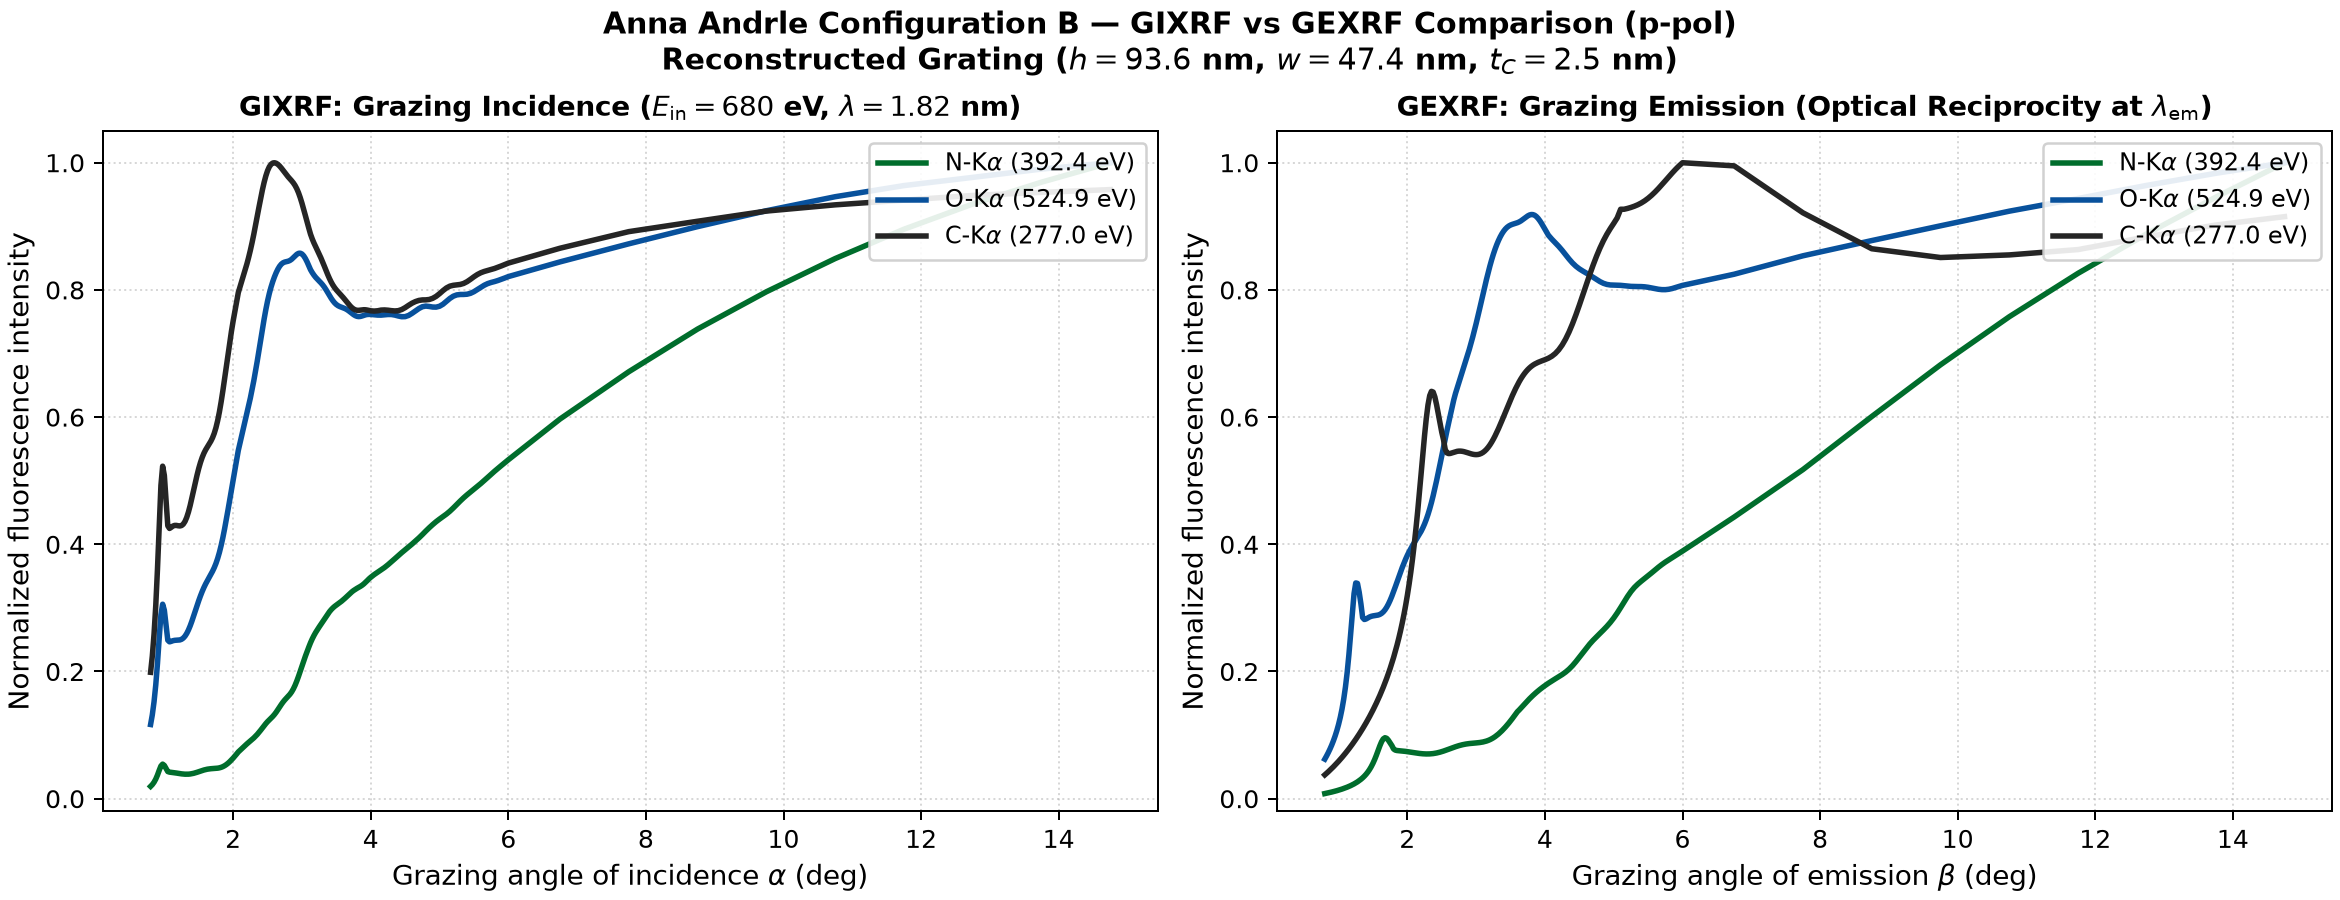
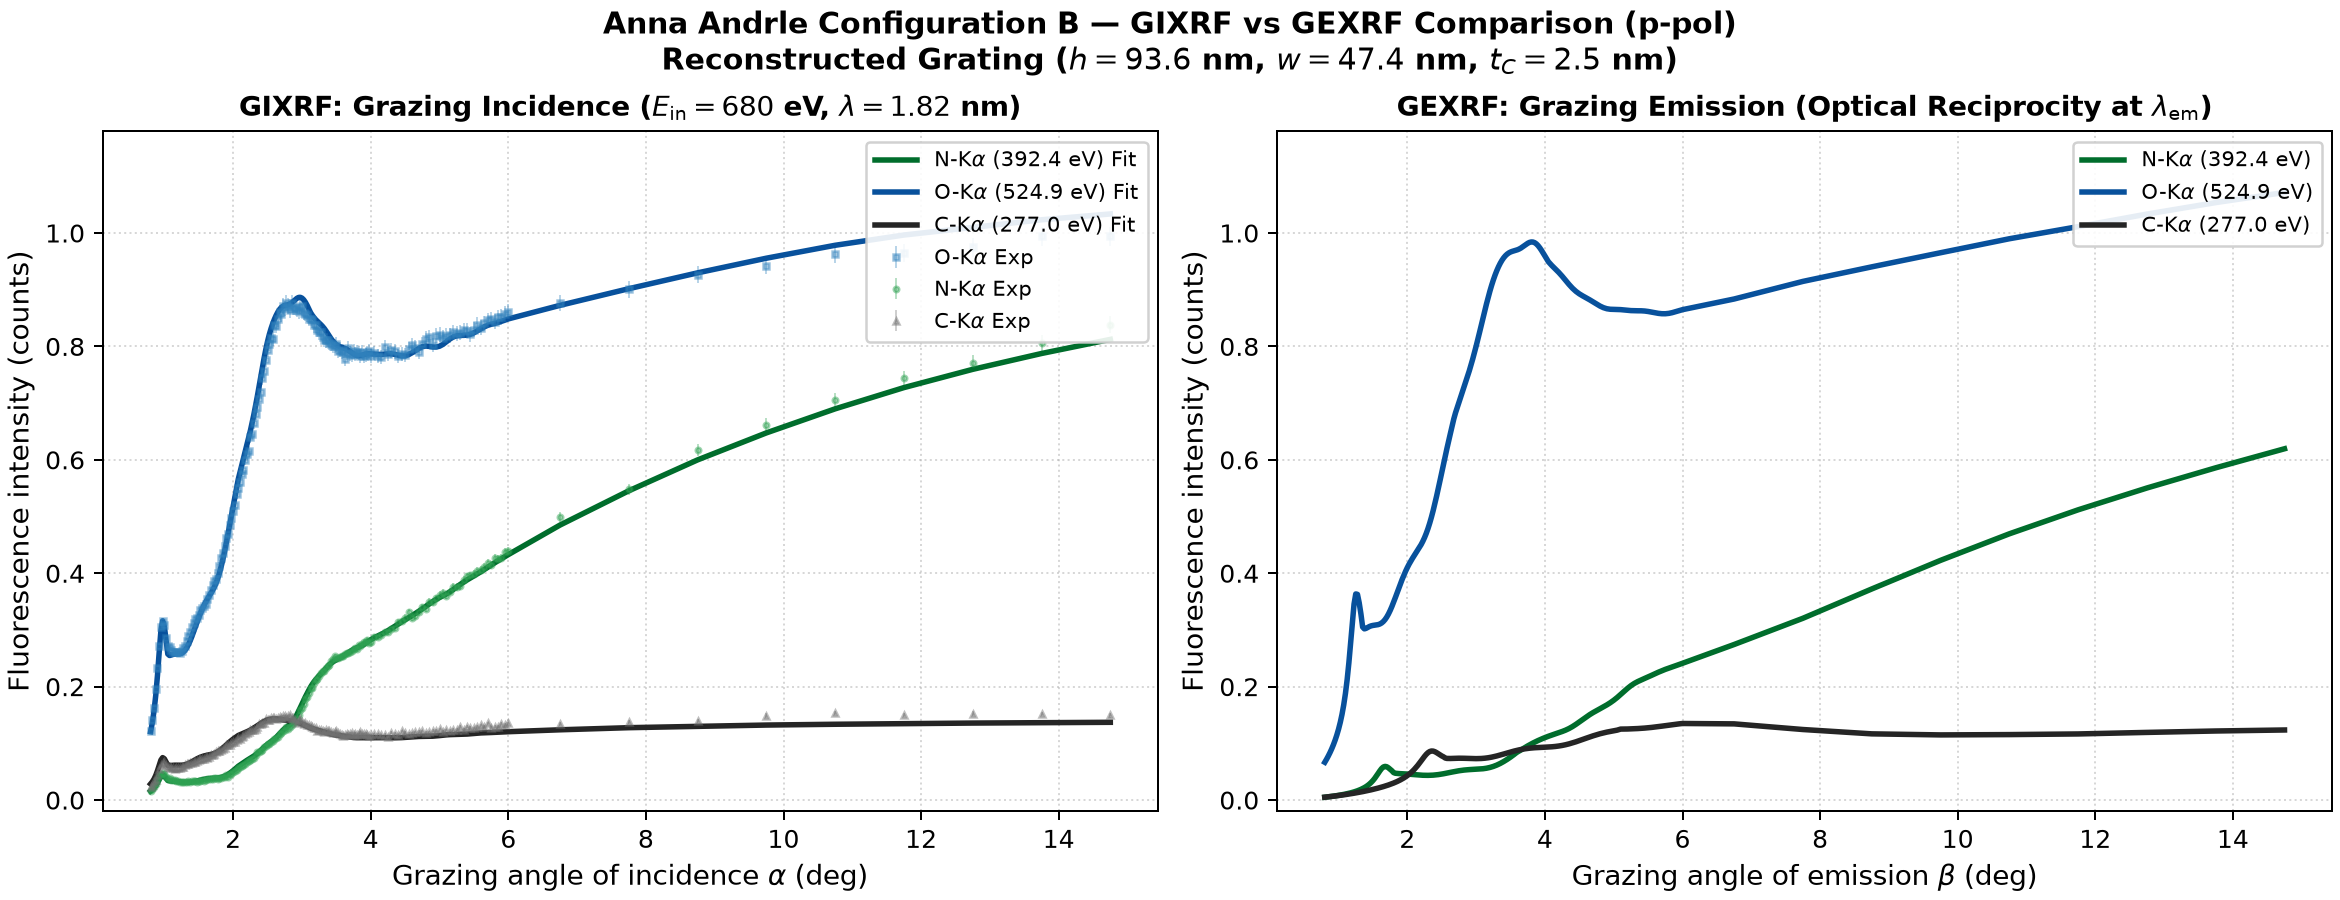
fix(gexrf): use shared physical count scale and experimental overlays for GIXRF vs GEXRF comparison

diff --git a/examples/compare_gixrf_gexrf.py b/examples/compare_gixrf_gexrf.py
@@ -24,31 +24,33 @@ if not fit_file.exists():
 
 result = fit.FitResult.load(fit_file)
 p = result.params
-angles_deg = result.forward.angles_deg
+fwd = result.forward
+angles_deg = fwd.angles_deg
 angles_rad = np.deg2rad(angles_deg)
 
-# %% 2. GIXRF Signals (Excitation at fixed E_in = 680 eV)
-gixrf = {
-    "N": result.forward.scaled_N / result.forward.scaled_N.max(),
-    "O": result.forward.scaled_O / result.forward.scaled_O.max(),
-    "C": result.forward.scaled_C / result.forward.scaled_C.max() if result.forward.scaled_C is not None else None,
-}
+# Load experimental data if available for direct visual overlay on GIXRF
+data_file = output_dir / "andrle_fig4_37_experimental_data.npz"
+data = fit.load_andrle_data(data_file) if data_file.exists() else None
+
+# %% 2. GIXRF Signals (Shared Physical Count Scale from Reconstruction)
+gixrf = {"N": fwd.scaled_N, "O": fwd.scaled_O, "C": fwd.scaled_C}
+scales = {"N": fwd.scale_N, "O": fwd.scale_O, "C": fwd.scale_C}
 
 # %% 3. GEXRF via Optical Reciprocity (Solving at Characteristic Emission Lines)
 # By the Lorentz reciprocity theorem, the exit-angle emission probability is computed
 # by solving for the internal field of a time-reversed plane wave incident at exit angle beta
 # and emission wavelength lambda_em.
 emissions = {
-    "N": (392.4, "Si3N4", "#006d2c", "N-K$\\alpha$ (392.4 eV)"),
-    "O": (524.9, "SiO2",  "#08519c", "O-K$\\alpha$ (524.9 eV)"),
-    "C": (277.0, "C2O",   "#252525", "C-K$\\alpha$ (277.0 eV)"),
+    "N": (392.4, "Si3N4", "#006d2c", "#31a354", "N-K$\\alpha$ (392.4 eV)"),
+    "O": (524.9, "SiO2",  "#08519c", "#3182bd", "O-K$\\alpha$ (524.9 eV)"),
+    "C": (277.0, "C2O",   "#252525", "#737373", "C-K$\\alpha$ (277.0 eV)"),
 }
 
 print(f"Reconstructed Grating: h={p.h:.1f}nm, w={p.w:.1f}nm, swa={p.swa:.1f}°, tt={p.tt:.2f}nm, tg={p.tg:.2f}nm, tc={p.tc:.2f}nm")
 print("Computing GEXRF angular curves via optical reciprocity...")
 
 gexrf = {}
-for ch, (E_em, mat_key, _, label) in emissions.items():
+for ch, (E_em, mat_key, _, _, label) in emissions.items():
     lam_em = 1239.841984 / E_em  # Reciprocal wavelength in nm
 
     # Optical constants at the specific emission line energy
@@ -72,31 +74,42 @@ for ch, (E_em, mat_key, _, label) in emissions.items():
         sol = prep.solve(alpha=beta, phi=0.0, wavelength=lam_em, polarization="p")
         raw[i] = sol.fluorescence(target_mat, attenuation=1e-3)
 
-    gexrf[ch] = raw / raw.max()
-    print(f"  Finished GEXRF {label}")
+    # Scale using the physical elemental factor c_k to preserve absolute count proportions
+    gexrf[ch] = raw * scales[ch]
+    print(f"  Finished GEXRF {label} (peak count: {gexrf[ch].max():.3f})")
 
-# %% 4. Plot Side-by-Side Comparison: GIXRF vs GEXRF
+# %% 4. Plot Side-by-Side Comparison: GIXRF vs GEXRF on Shared Physical Count Scale
 fig, (ax1, ax2) = plt.subplots(1, 2, figsize=(13, 5), layout="constrained")
 
-for ch, (_, _, color, label) in emissions.items():
+# Experimental data overlay on GIXRF (matching Fig. 4.37 / fit_andrle_b_single_graph)
+if data is not None:
+    ax1.errorbar(data.angles_deg, data.exp_O, yerr=data.sigma_O, fmt="s", color="#3182bd",
+                  markersize=2.2, capsize=0, elinewidth=0.6, alpha=0.45, label="O-K$\\alpha$ Exp")
+    ax1.errorbar(data.angles_deg, data.exp_N, yerr=data.sigma_N, fmt="o", color="#31a354",
+                  markersize=2.2, capsize=0, elinewidth=0.6, alpha=0.45, label="N-K$\\alpha$ Exp")
+    if data.has_carbon:
+        ax1.errorbar(data.angles_deg, data.exp_C, yerr=data.sigma_C, fmt="^", color="#737373",
+                      markersize=2.2, capsize=0, elinewidth=0.6, alpha=0.45, label="C-K$\\alpha$ Exp")
+
+for ch, (_, _, color, _, label) in emissions.items():
     if gixrf[ch] is not None:
-        ax1.plot(angles_deg, gixrf[ch], "-", color=color, lw=2.2, label=label)
+        ax1.plot(angles_deg, gixrf[ch], "-", color=color, lw=2.2, label=f"{label} Fit")
     ax2.plot(angles_deg, gexrf[ch], "-", color=color, lw=2.2, label=label)
 
 # GIXRF Panel
 ax1.set_title("GIXRF: Grazing Incidence ($E_{\\mathrm{in}} = 680$ eV, $\\lambda = 1.82$ nm)", fontsize=11, fontweight="bold")
 ax1.set_xlabel("Grazing angle of incidence $\\alpha$ (deg)", fontsize=11)
-ax1.set_ylabel("Normalized fluorescence intensity", fontsize=11)
-ax1.set_ylim(-0.02, 1.05)
-ax1.legend(loc="upper right", fontsize=9.5, framealpha=0.9)
+ax1.set_ylabel("Fluorescence intensity (counts)", fontsize=11)
+ax1.set_ylim(-0.02, 1.18)
+ax1.legend(loc="upper right", fontsize=8.5, framealpha=0.9)
 ax1.grid(True, linestyle=":", alpha=0.5)
 
 # GEXRF Panel
 ax2.set_title("GEXRF: Grazing Emission (Optical Reciprocity at $\\lambda_{\\mathrm{em}}$)", fontsize=11, fontweight="bold")
 ax2.set_xlabel("Grazing angle of emission $\\beta$ (deg)", fontsize=11)
-ax2.set_ylabel("Normalized fluorescence intensity", fontsize=11)
-ax2.set_ylim(-0.02, 1.05)
-ax2.legend(loc="upper right", fontsize=9.5, framealpha=0.9)
+ax2.set_ylabel("Fluorescence intensity (counts)", fontsize=11)
+ax2.set_ylim(-0.02, 1.18)
+ax2.legend(loc="upper right", fontsize=8.5, framealpha=0.9)
 ax2.grid(True, linestyle=":", alpha=0.5)
 
 fig.suptitle(
